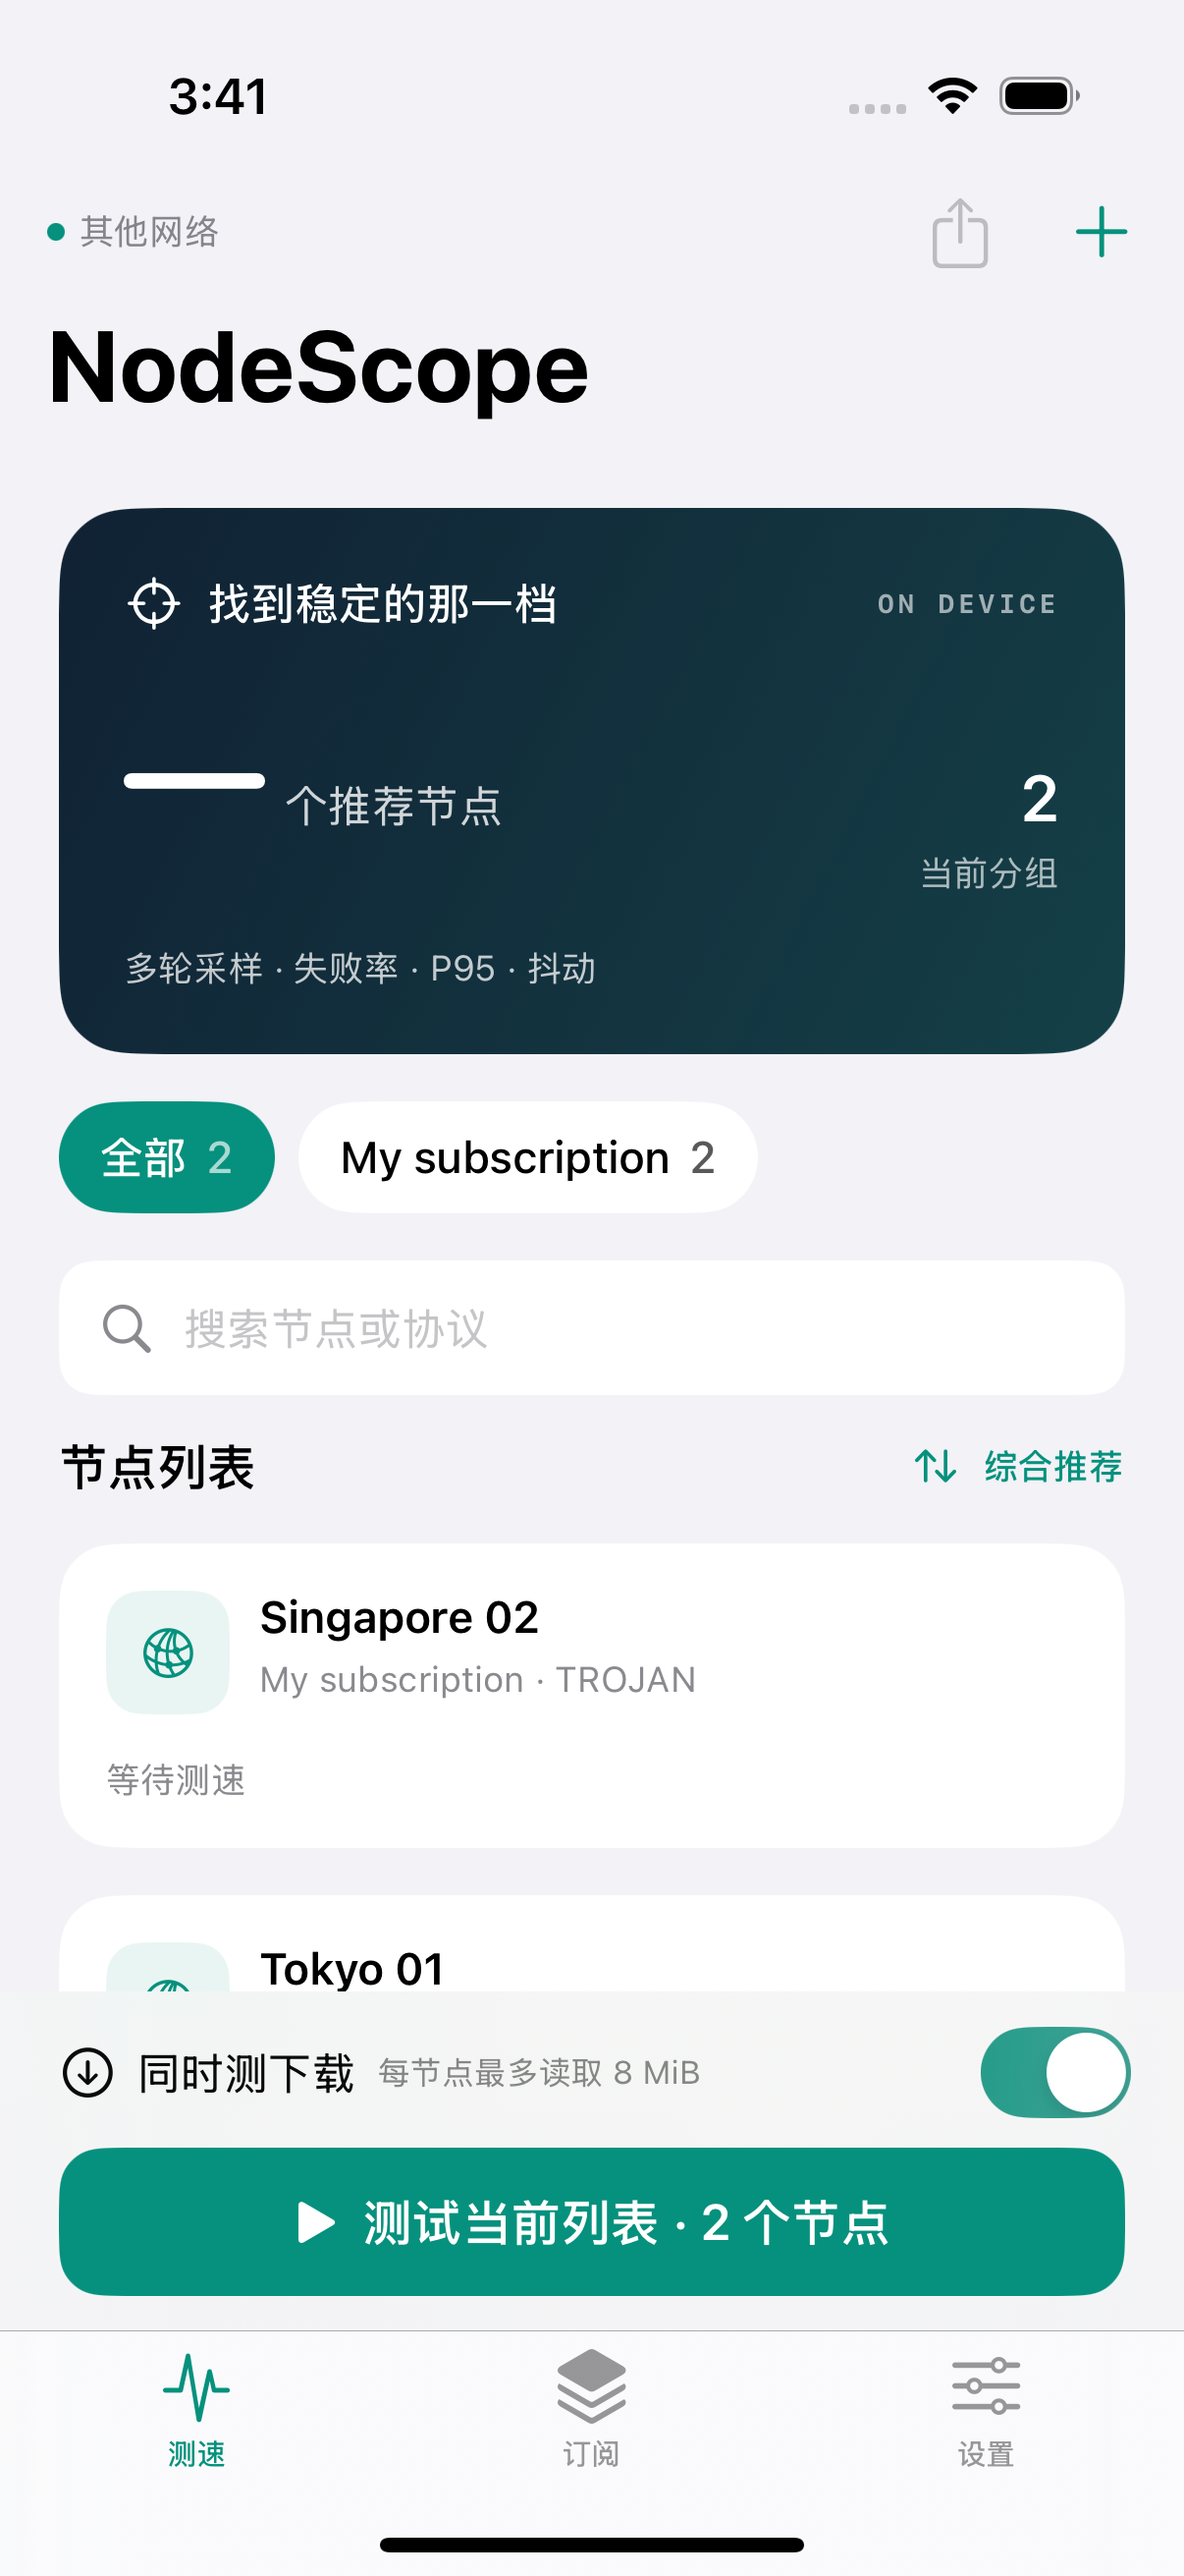
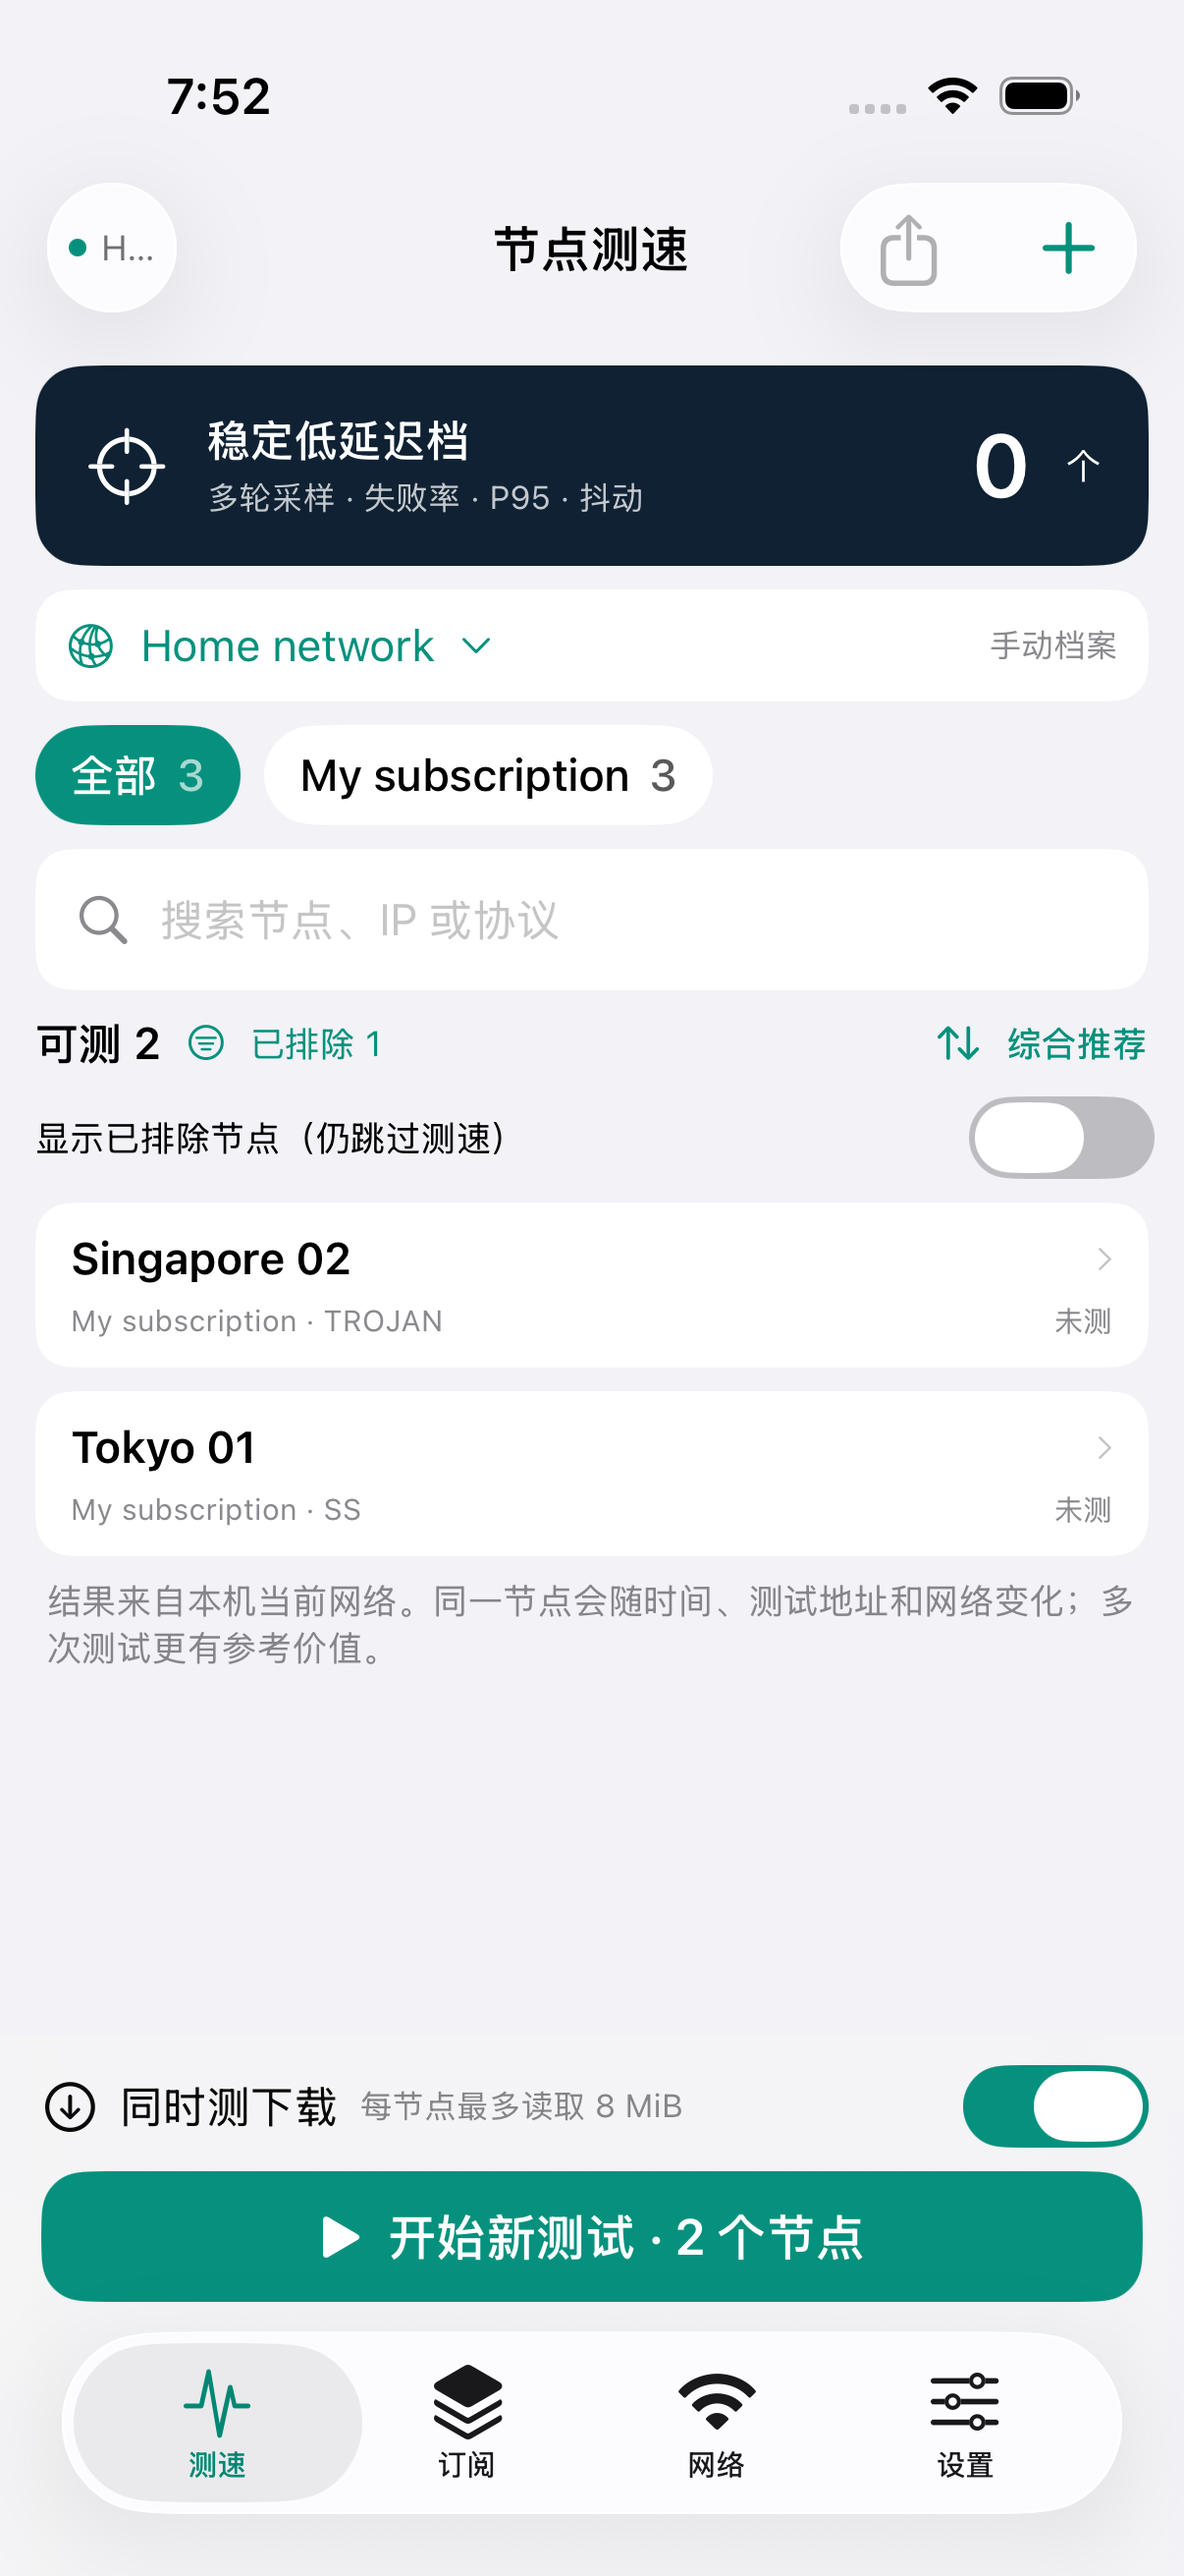
Show verified iOS 26 compact node list and remembered network profile

diff --git a/README.md b/README.md
@@ -6,7 +6,7 @@
 
 构建包含核心测试、iOS 网络隔离与数据迁移测试，以及模拟器的订阅导入、地区排除和设置记忆测试。尚未在 iOS 27 真机验证。
 
-<img src="docs/screenshot.png" alt="NodeScope 实际运行界面，示例节点未进行测速" width="320" />
+<img src="docs/screenshot.png" alt="NodeScope 1.1.0 在 iOS 26.2 的实际运行界面，地区排除与网络档案已启用，示例节点未测速" width="320" />
 
 ## 功能
 
